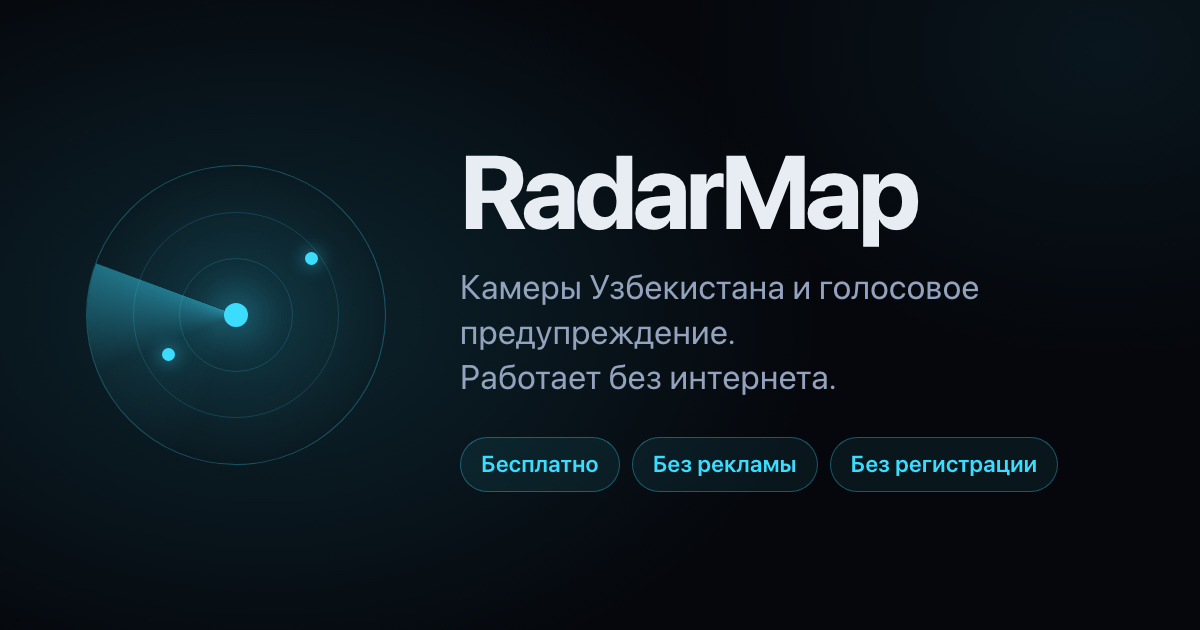
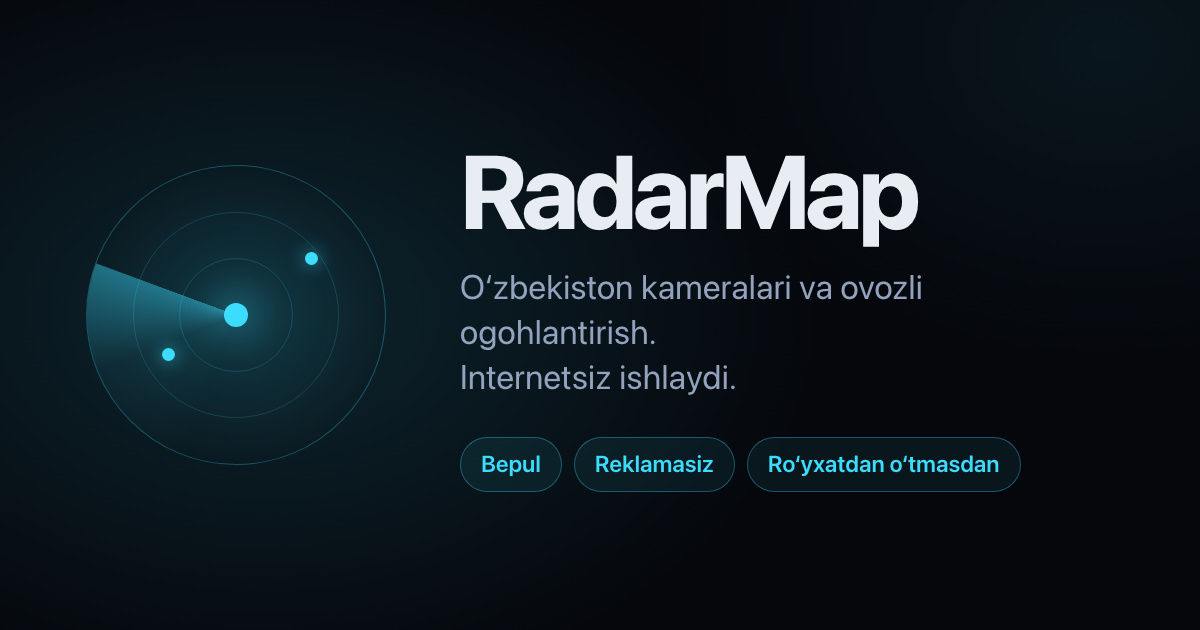
Сайт: честный список того, что уходит на сервер, скриншоты на языке страницы, новые возможности, превью на узбекском

Changed region(s): [[0.37, 0.5127, 0.7092, 0.6333], [0.37, 0.4222, 0.8325, 0.4825], [0.4008, 0.6937, 0.8633, 0.7841]]

diff --git a/server/index.html b/server/index.html
@@ -14,7 +14,7 @@
 <meta property="og:url" content="https://soulmed.uz/radarmap/">
 <!-- Ссылку шлют в мессенджеры — без картинки Telegram и WhatsApp рисуют голую
      текстовую строку, и приложение выглядит как случайная ссылка. -->
-<meta property="og:image" content="https://soulmed.uz/radarmap/og.jpg">
+<meta property="og:image" content="https://soulmed.uz/radarmap/og.jpg?v=uz1">
 <meta property="og:image:width" content="1200">
 <meta property="og:image:height" content="630">
 <meta name="twitter:card" content="summary_large_image">
@@ -435,6 +435,14 @@ section { padding:72px 0; }
 .stage .cap b { color:var(--text); }
 
 /* --- Карточки --- */
+/* Скриншоты: лента с прокруткой на телефоне, сетка в ряд на широком экране. */
+.shots { padding-top:8px; }
+.shots .strip { display:flex; gap:14px; overflow-x:auto; scroll-snap-type:x mandatory;
+  padding:4px 2px 14px; -webkit-overflow-scrolling:touch; scrollbar-width:thin; }
+.shots img { flex:none; width:min(62vw,230px); height:auto; border-radius:22px;
+  border:1px solid var(--stroke); background:var(--surface); scroll-snap-align:center; }
+@media (min-width:1100px) { .shots .strip { overflow:visible; justify-content:center; }
+  .shots img { width:calc((100% - 70px)/6); } }
 .grid { display:grid; gap:14px; grid-template-columns:repeat(auto-fit,minmax(240px,1fr)); }
 .card { background:var(--surface); border:1px solid var(--stroke); border-radius:18px;
         padding:22px; transition:transform .3s var(--ease), border-color .3s; }
@@ -647,6 +655,18 @@ footer a:hover { text-decoration:underline; }
       iPhone · iOS 18 va undan yuqori · CarPlay va Apple Watch</p>
   </header>
 
+  <!-- ===== Скриншоты: настоящие экраны приложения, на языке страницы ===== -->
+  <section class="shots rise" aria-label="Skrinshotlar / Скриншоты">
+    <div class="strip">
+      <img src="shots/uz/01.jpg" data-src-uz="shots/uz/01.jpg" data-src-ru="shots/ru/01.jpg" width="540" height="1173" loading="lazy" decoding="async" alt="">
+      <img src="shots/uz/02.jpg" data-src-uz="shots/uz/02.jpg" data-src-ru="shots/ru/02.jpg" width="540" height="1173" loading="lazy" decoding="async" alt="">
+      <img src="shots/uz/03.jpg" data-src-uz="shots/uz/03.jpg" data-src-ru="shots/ru/03.jpg" width="540" height="1173" loading="lazy" decoding="async" alt="">
+      <img src="shots/uz/04.jpg" data-src-uz="shots/uz/04.jpg" data-src-ru="shots/ru/04.jpg" width="540" height="1173" loading="lazy" decoding="async" alt="">
+      <img src="shots/uz/05.jpg" data-src-uz="shots/uz/05.jpg" data-src-ru="shots/ru/05.jpg" width="540" height="1173" loading="lazy" decoding="async" alt="">
+      <img src="shots/uz/06.jpg" data-src-uz="shots/uz/06.jpg" data-src-ru="shots/ru/06.jpg" width="540" height="1173" loading="lazy" decoding="async" alt="">
+    </div>
+  </section>
+
   <!-- ===== Сцена 1: сам момент предупреждения ===== -->
   <section class="demo rise">
     <div>
@@ -830,11 +850,39 @@ footer a:hover { text-decoration:underline; }
     <h2 data-ru="Что ещё умеет" data-uz="Yana nima qila oladi">Yana nima qila oladi</h2>
     <div class="grid">
       <div class="card">
+        <div class="ico"><svg viewBox="0 0 24 24" aria-hidden="true"><path d="M5 20V9a4 4 0 014-4h8"/><path d="M14 2l3 3-3 3"/></svg></div>
+        <h3 data-ru="Ведёт по маршруту" data-uz="Marshrut bo‘yicha boshlab boradi">Marshrut bo‘yicha boshlab boradi</h3>
+        <p data-ru="Подскажет поворот голосом, покажет нужную полосу, а камеры на пути покажет прямо на линии маршрута."
+           data-uz="Burilishni ovoz bilan aytadi, kerakli qatorni ko‘rsatadi, yo‘ldagi kameralarni esa marshrut chizig‘ining o‘zida ko‘rsatadi.">
+          Burilishni ovoz bilan aytadi, kerakli qatorni ko‘rsatadi, yo‘ldagi kameralarni esa marshrut chizig‘ining o‘zida ko‘rsatadi.</p>
+      </div>
+      <div class="card">
+        <div class="ico"><svg viewBox="0 0 24 24" aria-hidden="true"><path d="M4 18h4M10 18h4M16 18h4"/><path d="M4 12h16"/><path d="M4 6h7"/></svg></div>
+        <h3 data-ru="Пробки от самих водителей" data-uz="Tirbandlik — haydovchilarning o‘zidan">Tirbandlik — haydovchilarning o‘zidan</h3>
+        <p data-ru="Скорость на дорогах считается из обезличенных отрезков пути. Если впереди пробка — скажу и предложу объезд."
+           data-uz="Yo‘llardagi tezlik shaxssiz yo‘l bo‘laklaridan hisoblanadi. Oldinda tirbandlik bo‘lsa — aytaman va aylanib o‘tishni taklif qilaman.">
+          Yo‘llardagi tezlik shaxssiz yo‘l bo‘laklaridan hisoblanadi. Oldinda tirbandlik bo‘lsa — aytaman va aylanib o‘tishni taklif qilaman.</p>
+      </div>
+      <div class="card">
+        <div class="ico"><svg viewBox="0 0 24 24" aria-hidden="true"><path d="M3 11l9-7 9 7"/><path d="M5 10v10h14V10"/><path d="M10 20v-5h4v5"/></svg></div>
+        <h3 data-ru="Близкие видят, когда вы будете" data-uz="Yaqinlaringiz qachon yetishingizni ko‘radi">Yaqinlaringiz qachon yetishingizni ko‘radi</h3>
+        <p data-ru="Одна ссылка — и дома видят время прибытия. Без координат и адреса, ссылка гаснет сама."
+           data-uz="Bitta havola — uydagilar yetib kelish vaqtini ko‘radi. Koordinata va manzilsiz, havola o‘zi o‘chadi.">
+          Bitta havola — uydagilar yetib kelish vaqtini ko‘radi. Koordinata va manzilsiz, havola o‘zi o‘chadi.</p>
+      </div>
+      <div class="card">
+        <div class="ico"><svg viewBox="0 0 24 24" aria-hidden="true"><circle cx="12" cy="12" r="9"/><path d="M12 7v5l3 2"/></svg></div>
+        <h3 data-ru="Дорога на работу" data-uz="Ishga yo‘l">Ishga yo‘l</h3>
+        <p data-ru="Сколько обычно занимает дорога и когда лучше выехать — считается в телефоне и никуда не уходит."
+           data-uz="Yo‘l odatda qancha vaqt olishi va qachon chiqqan ma’qulligi — telefonda hisoblanadi va hech qayerga yuborilmaydi.">
+          Yo‘l odatda qancha vaqt olishi va qachon chiqqan ma’qulligi — telefonda hisoblanadi va hech qayerga yuborilmaydi.</p>
+      </div>
+      <div class="card">
         <div class="ico"><svg viewBox="0 0 24 24" aria-hidden="true"><path d="M3 12h4l3-8 4 16 3-8h4"/></svg></div>
         <h3 data-ru="Работает без сети" data-uz="Tarmoqsiz ishlaydi">Tarmoqsiz ishlaydi</h3>
-        <p data-ru="База камер лежит в телефоне. На трассе карта может не открыться — предупреждения продолжают работать."
-           data-uz="Kameralar bazasi telefon xotirasida. Yo‘lda xarita ochilmasligi mumkin, lekin ogohlantirishlar ishlayveradi.">
-          Kameralar bazasi telefon xotirasida. Yo‘lda xarita ochilmasligi mumkin, lekin ogohlantirishlar ishlayveradi.</p>
+        <p data-ru="База из 3 600 с лишним камер лежит в телефоне. На трассе карта может не открыться — предупреждения продолжают работать."
+           data-uz="3 600 dan ortiq kameralar bazasi telefon xotirasida. Yo‘lda xarita ochilmasligi mumkin, lekin ogohlantirishlar ishlayveradi.">
+          3 600 dan ortiq kameralar bazasi telefon xotirasida. Yo‘lda xarita ochilmasligi mumkin, lekin ogohlantirishlar ishlayveradi.</p>
       </div>
       <div class="card">
         <div class="ico"><svg viewBox="0 0 24 24" aria-hidden="true"><rect x="3" y="11" width="18" height="10" rx="2"/><path d="M5 11V8a7 7 0 0114 0v3"/></svg></div>
@@ -877,28 +925,45 @@ footer a:hover { text-decoration:underline; }
   <!-- ===== Приватность ===== -->
   <section class="rise">
     <h2 data-ru="Что уходит на сервер" data-uz="Serverga nima yuboriladi">Serverga nima yuboriladi</h2>
-    <p class="lead" data-ru="Полный список. Больше ничего нет — ни истории поездок, ни маршрутов, ни адресов."
-       data-uz="To‘liq ro‘yxat. Bundan boshqa hech narsa yuborilmaydi — na safarlar tarixi, na marshrutlar, na manzillar.">
-      To‘liq ro‘yxat. Bundan boshqa hech narsa yuborilmaydi — na safarlar tarixi, na marshrutlar, na manzillar.</p>
+    <p class="lead" data-ru="Всё, что приложение отправляет. Истории поездок, дома и работы, адресов на сервере нет."
+       data-uz="Ilova yuboradigan hamma narsa shu. Safarlar tarixi, uy va ish joyi, manzillar serverga yuborilmaydi.">
+      Ilova yuboradigan hamma narsa shu. Safarlar tarixi, uy va ish joyi, manzillar serverga yuborilmaydi.</p>
     <div class="priv">
       <ul>
         <li><span class="out">→</span><div><b data-ru="Отметки радаров" data-uz="Radar belgilari">Radar belgilari</b>
-          <div data-ru="Только когда вы сами нажали кнопку: координата точки и случайный номер устройства."
-               data-uz="Faqat o‘zingiz tugmani bosganingizda: belgi koordinatasi va tasodifiy qurilma raqami.">
-            Faqat o‘zingiz tugmani bosganingizda: belgi koordinatasi va tasodifiy qurilma raqami.</div></div></li>
+          <div data-ru="Только когда вы сами нажали кнопку или ответили на вопрос: координата точки и случайный номер устройства."
+               data-uz="Faqat o‘zingiz tugmani bosganingizda yoki savolga javob berganingizda: belgi koordinatasi va tasodifiy qurilma raqami.">
+            Faqat o‘zingiz tugmani bosganingizda yoki savolga javob berganingizda: belgi koordinatasi va tasodifiy qurilma raqami.</div></div></li>
         <li><span class="out">→</span><div><b data-ru="Запрос маршрута" data-uz="Marshrut so‘rovi">Marshrut so‘rovi</b>
           <div data-ru="Точки «откуда» и «куда» в момент построения. Не сохраняются."
                data-uz="Marshrut qurilayotgan paytdagi boshlanish va tugash nuqtalari. Saqlanmaydi.">
             Marshrut qurilayotgan paytdagi boshlanish va tugash nuqtalari. Saqlanmaydi.</div></div></li>
+        <li><span class="out">→</span><div><b data-ru="Отрезки пути для пробок" data-uz="Tirbandlik uchun yo‘l bo‘laklari">Tirbandlik uchun yo‘l bo‘laklari</b>
+          <div data-ru="Во время поездки — куски около километра: точки и скорость, без номера устройства и времени суток. Начало и конец поездки и 300 м вокруг дома и работы не уходят никогда. Выключается в настройках."
+               data-uz="Safar paytida — taxminan bir kilometrlik bo‘laklar: nuqtalar va tezlik, qurilma raqami va kun vaqtisiz. Safarning boshi va oxiri hamda uy va ish atrofidagi 300 m hech qachon yuborilmaydi. Sozlamalarda o‘chirib qo‘yiladi.">
+            Safar paytida — taxminan bir kilometrlik bo‘laklar: nuqtalar va tezlik, qurilma raqami va kun vaqtisiz. Safarning boshi va oxiri hamda uy va ish atrofidagi 300 m hech qachon yuborilmaydi. Sozlamalarda o‘chirib qo‘yiladi.</div></div></li>
+        <li><span class="out">→</span><div><b data-ru="Время прибытия для близких" data-uz="Yaqinlar uchun yetib borish vaqti">Yaqinlar uchun yetib borish vaqti</b>
+          <div data-ru="Только если вы сами отправили ссылку: время прибытия и оставшееся расстояние — без координат и адреса."
+               data-uz="Faqat o‘zingiz havola yuborganingizda: yetib borish vaqti va qolgan masofa — koordinata va manzilsiz.">
+            Faqat o‘zingiz havola yuborganingizda: yetib borish vaqti va qolgan masofa — koordinata va manzilsiz.</div></div></li>
         <li><span class="out">→</span><div><b data-ru="Счётчики за сутки" data-uz="Kunlik hisoblagichlar">Kunlik hisoblagichlar</b>
           <div data-ru="Сколько поездок и километров — только числа, без координат и времени. Выключается в настройках."
                data-uz="Nechta safar va necha kilometr — faqat raqamlar, koordinata va vaqtsiz. Sozlamalarda o‘chirib qo‘yiladi.">
             Nechta safar va necha kilometr — faqat raqamlar, koordinata va vaqtsiz. Sozlamalarda o‘chirib qo‘yiladi.</div></div></li>
+        <li><span class="out">→</span><div><b data-ru="Отчёты о сбоях" data-uz="Nosozlik hisobotlari">Nosozlik hisobotlari</b>
+          <div data-ru="Раз в сутки iOS присылает отчёт о падениях и расходе батареи — без координат."
+               data-uz="Kuniga bir marta iOS ilova to‘xtab qolishi va batareya sarfi haqida hisobot yuboradi — koordinatasiz.">
+            Kuniga bir marta iOS ilova to‘xtab qolishi va batareya sarfi haqida hisobot yuboradi — koordinatasiz.</div></div></li>
+        <li><span class="out">→</span><div><b data-ru="Сообщения разработчику" data-uz="Dasturchiga xabarlar">Dasturchiga xabarlar</b>
+          <div data-ru="Только то, что вы сами написали в форме, и контакт — если оставили. Нажали «Не предупредила» — ещё место и скорость того проезда."
+               data-uz="Faqat formada o‘zingiz yozgan matn va — agar qoldirsangiz — kontakt. Kamera ogohlantirmaganini bildirsangiz — o‘sha o‘tishning joyi va tezligi ham.">
+            Faqat formada o‘zingiz yozgan matn va — agar qoldirsangiz — kontakt. Kamera ogohlantirmaganini bildirsangiz — o‘sha o‘tishning joyi va tezligi ham.</div></div></li>
       </ul>
       <div class="foot"
            data-ru="Номер устройства случайный и обновляется каждые 30 дней — связать ваши поездки в одну длинную историю невозможно даже нам."
            data-uz="Qurilma raqami tasodifiy va har 30 kunda yangilanadi — safarlaringizni bitta uzun tarixga bog‘lash bizning ham qo‘limizdan kelmaydi.">
         Qurilma raqami tasodifiy va har 30 kunda yangilanadi — safarlaringizni bitta uzun tarixga bog‘lash bizning ham qo‘limizdan kelmaydi.</div>
+      <p class="note"><a href="privacy.html" data-ru="Подробно — в политике конфиденциальности" data-uz="Batafsil — maxfiylik siyosatida">Batafsil — maxfiylik siyosatida</a></p>
     </div>
   </section>
 
@@ -949,6 +1014,10 @@ footer a:hover { text-decoration:underline; }
     for (var i = 0; i < nodes.length; i++) {
       var value = nodes[i].getAttribute('data-' + lang);
       if (value) { nodes[i].textContent = value; }
+    }
+    var pics = document.querySelectorAll('[data-src-' + lang + ']');
+    for (var p = 0; p < pics.length; p++) {
+      pics[p].setAttribute('src', pics[p].getAttribute('data-src-' + lang));
     }
     var buttons = document.querySelectorAll('#lang button');
     for (var j = 0; j < buttons.length; j++) {

diff --git a/server/og.html b/server/og.html
@@ -1,5 +1,5 @@
 <!DOCTYPE html>
-<html lang="ru">
+<html lang="uz">
 <head>
 <meta charset="utf-8">
 <title>RadarMap — карточка для мессенджеров</title>
@@ -74,8 +74,8 @@ p { font-size:34px; line-height:1.32; color:var(--text-2); margin-top:22px; max-
   </div>
   <div class="text">
     <h1>RadarMap</h1>
-    <p>Камеры Узбекистана и голосовое предупреждение.<br>Работает без интернета.</p>
-    <div class="row"><span>Бесплатно</span><span>Без рекламы</span><span>Без регистрации</span></div>
+    <p>O‘zbekiston kameralari va ovozli ogohlantirish.<br>Internetsiz ishlaydi.</p>
+    <div class="row"><span>Bepul</span><span>Reklamasiz</span><span>Ro‘yxatdan o‘tmasdan</span></div>
   </div>
 </body>
 </html>
